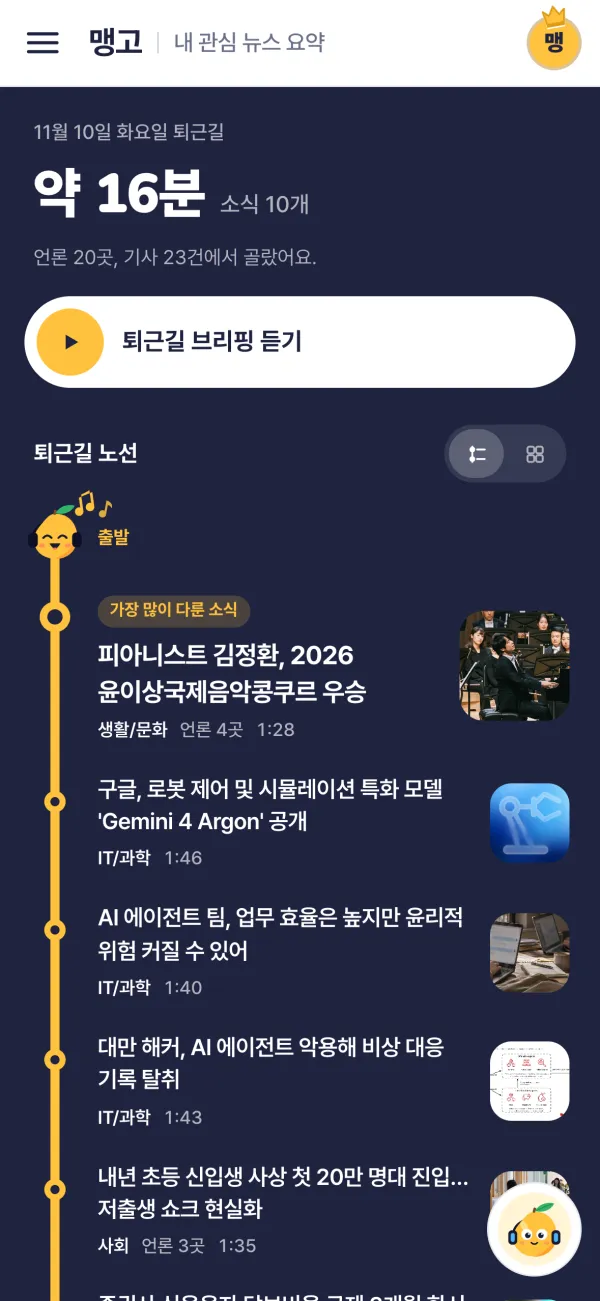
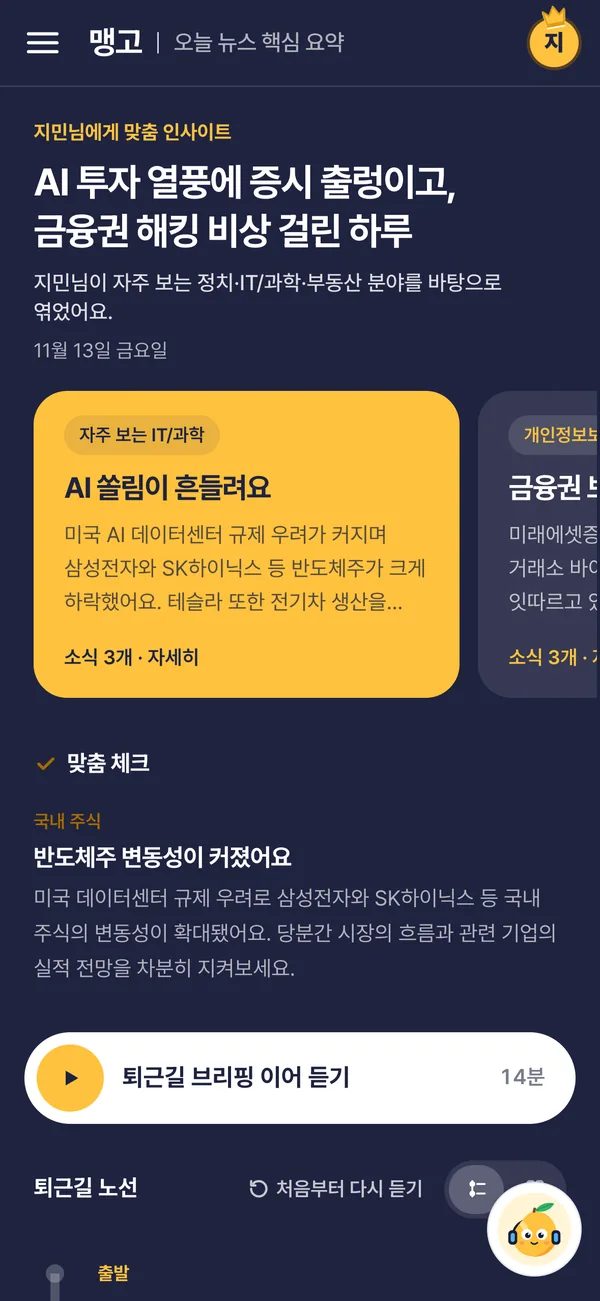
feat(landing): 첫 화면 이미지를 맞춤 인사이트 화면으로, 'AI 제미나이에게 물어보세요' 칸 / fix: 퇴근길 맞춤 체크 제목이 안 보이던 것

diff --git a/apps/web/components/landing/Landing.tsx b/apps/web/components/landing/Landing.tsx
@@ -31,6 +31,7 @@ import { getPlans, monthlyPrice } from "@/lib/server/plans";
 import { AppQr } from "@/components/app-install/AppQr";
 import { AuthLink } from "./AuthLink";
 import articleShot from "./app-article.webp";
+import askShot from "./app-ask.webp";
 import foundShot from "./app-found.webp";
 import libraryShot from "./app-library.webp";
 import listenShot from "./app-listen.webp";
@@ -107,7 +108,7 @@ const faq = (free: PlanLimits, plus: PlanLimits): [string, string][] => [
   ["원문은 어디서 읽어요?", "모든 소식에 원문 링크가 있어요. 맹고는 요약과 다시 쓴 전체 글을 보여 주고, 원문은 출처에서 읽을 수 있어요."],
   [
     "소식에 대해 더 물어볼 수 있나요?",
-    `네. 소식 화면 오른쪽 아래 맹고 AI 버튼을 누르면 궁금한 걸 글이나 말로 물어볼 수 있어요. 읽던 소식을 바탕으로 물은 것부터 바로 답하고, 소식과 관계없는 질문에도 답해요. Free는 하루 ${ASK_DAILY.free}번, Premium은 하루 ${ASK_DAILY.plus}번까지 물어볼 수 있어요.`,
+    `네. 소식 화면 오른쪽 아래 맹고 AI 버튼을 누르면 궁금한 걸 글이나 말로 AI 제미나이에게 물어볼 수 있어요. 읽던 소식을 바탕으로 물은 것부터 바로 답하고, 소식과 관계없는 질문에도 답해요. Free는 하루 ${ASK_DAILY.free}번, Premium은 하루 ${ASK_DAILY.plus}번까지 물어볼 수 있어요.`,
   ],
   ["무료로 얼마나 쓸 수 있나요?", `가입하면 Free 플랜으로 브리핑마다 소식 ${free.dailyItems}개를 받아요.${free.dailyListens > 0 && !free.audio ? ` 음성 듣기도 하루 ${free.dailyListens}개는 무료예요.` : ""} 음성 듣기 무제한${plus.dailyItems > free.dailyItems ? `, 브리핑마다 소식 ${plus.dailyItems}개` : ""}, 주간 리포트는 Premium(${monthlyPrice(plus)}${discountPct(plus) > 0 ? `, 정가 ${plus.listPriceKrw!.toLocaleString("ko-KR")}원에서 ${discountPct(plus)}% 할인` : ""})에서 쓸 수 있고, 맹고 앱에서 결제해요.`],
   ["Premium은 언제든 해지할 수 있나요?", "네. 결제한 스토어(App Store·Google Play)의 구독 관리에서 언제든 해지할 수 있어요. 해지해도 이미 결제한 기간이 끝날 때까지는 Premium으로 써요."],
@@ -308,13 +309,21 @@ export async function Landing() {
 
             <Feature
               title="다 읽지 않아도, 핵심만 요약해요"
-              body="긴 글을 끝까지 읽을 필요 없어요. AI가 핵심만 짧게 요약하고, 원문 사진과 출처 링크를 함께 보여 드려요. 영어로 된 해외 글도 한국어로 요약하고, 읽다 궁금한 건 맹고 AI에게 물어보면 돼요."
+              body="긴 글을 끝까지 읽을 필요 없어요. AI가 핵심만 짧게 요약하고, 원문 사진과 출처 링크를 함께 보여 드려요. 영어로 된 해외 글도 한국어로 요약해요."
             >
               <Phone src={articleShot} className="mx-auto w-[62%] max-w-[240px]" />
             </Feature>
 
+            {/* 2026-11-13 사용자 '뉴스 내용 중에 궁금한 게 있으면 AI 제미나이한테 물어보세요, 이런 것도 넣어줘' */}
             <Feature
               flip
+              title="궁금한 건 AI 제미나이에게 물어보세요"
+              body="소식을 읽다 궁금한 게 생기면 맹고 AI 버튼을 누르세요. 구글 제미나이가 읽던 소식을 바탕으로 핵심부터 답해요. 예상 질문을 골라도 되고, 글이나 말로 물어도 돼요."
+            >
+              <Phone src={askShot} className="mx-auto w-[62%] max-w-[240px]" />
+            </Feature>
+
+            <Feature
               title="모든 소식엔 출처가 있어요"
               body="국내 경제지와 언론사, 해외 매체에서 모으고(영어 글도 한국어로), 소식마다 원문 링크가 붙어 있어 더 궁금하면 바로 확인할 수 있어요."
             >
@@ -339,6 +348,7 @@ export async function Landing() {
             </Feature>
 
             <Feature
+              flip
               title="지난 소식은 보관함에, 한 주는 리포트로"
               body="받은 소식은 보관함에 2주 동안 최신순으로 쌓이고(북마크한 소식은 계속), 분야로 거르거나 찾아서 골라 들을 수 있어요. Premium은 매주 월요일 아침, 지난주 소식을 한 줄 총평과 분야별 정리로 모은 주간 리포트를 받아요."
             >

diff --git a/apps/web/components/today/BriefingInsight.tsx b/apps/web/components/today/BriefingInsight.tsx
@@ -189,6 +189,8 @@ function MatchCheck({ insight }: { insight: BriefingInsight }) {
   const checks = insight.checks.slice(0, 1);
   if (!personal.length && !checks.length) return null;
   const tokenOf = (id: number) => data.items.find((i) => i.clusterId === id)?.token;
+  // 퇴근길(남색 바탕)에서는 글자를 밝게(2026-11-13: 제목이 남색 글자라 안 보였다)
+  const pm = data.slot === "pm";
   // 조용한 정보 칸(2026-11-11 사용자: 망고색 블록은 너무 튀고 메인 소식처럼 보인다 → 테두리도 없이). 망고색은 체크 표시와 근거 글자에만
   return (
     <section aria-labelledby="match-title" className="mt-7">
@@ -196,14 +198,14 @@ function MatchCheck({ insight }: { insight: BriefingInsight }) {
         <IconCheck className="size-4 text-mango-deep [stroke-width:3]" />
         맞춤 체크
       </h2>
-      <ul className="mt-1 divide-y divide-line">
+      <ul className={`mt-1 divide-y ${pm ? "divide-white/10" : "divide-line"}`}>
         {personal.map((x) => {
           const token = tokenOf(x.id);
           const body = (
             <>
               <span className="block text-[12px] font-semibold text-mango-deep">{x.about}</span>
-              <span className="mt-1 block text-[16px] font-bold leading-snug tracking-[-0.02em] text-ink">{x.title}</span>
-              <span className="mt-1 block text-[14px] leading-relaxed text-sub">{x.text}</span>
+              <span className={`mt-1 block text-[16px] font-bold leading-snug tracking-[-0.02em] ${pm ? "text-white" : "text-ink"}`}>{x.title}</span>
+              <span className={`mt-1 block text-[14px] leading-relaxed ${pm ? "text-white/65" : "text-sub"}`}>{x.text}</span>
             </>
           );
           return (
@@ -220,7 +222,7 @@ function MatchCheck({ insight }: { insight: BriefingInsight }) {
         })}
         {checks.map((c) => {
           const token = tokenOf(c.id);
-          const cls = "flex items-start gap-2.5 py-3.5 text-[14px] font-medium leading-relaxed text-ink no-underline";
+          const cls = `flex items-start gap-2.5 py-3.5 text-[14px] font-medium leading-relaxed no-underline ${pm ? "text-white/85" : "text-ink"}`;
           const body = (
             <>
               <span className="mt-[9px] size-1.5 shrink-0 rounded-full bg-mango" aria-hidden="true" />

diff --git a/apps/web/lib/site.ts b/apps/web/lib/site.ts
@@ -48,7 +48,7 @@ export function ogImages() {
   return [{ url: appUrl("/opengraph-image"), width: 1200, height: 630, alt: `${SITE_NAME} - 내 관심 분야 소식, 오늘 뉴스 핵심 요약` }];
 }
 /** 소개 페이지 문구를 바꾼 날. 사이트맵 lastmod로 나간다(빌드 시각을 쓰면 배포마다 모두 '바뀜'이 돼 검색엔진이 믿지 않는다) */
-export const LANDING_UPDATED_ON = "2026-11-12";
+export const LANDING_UPDATED_ON = "2026-11-13";
 
 /**
  * 다른 이름. 검색·AI가 과일 '망고'(Mango)나 비슷한 이름의 다른 서비스와 헷갈리지 않게 구조화 데이터에 같이 적는다
